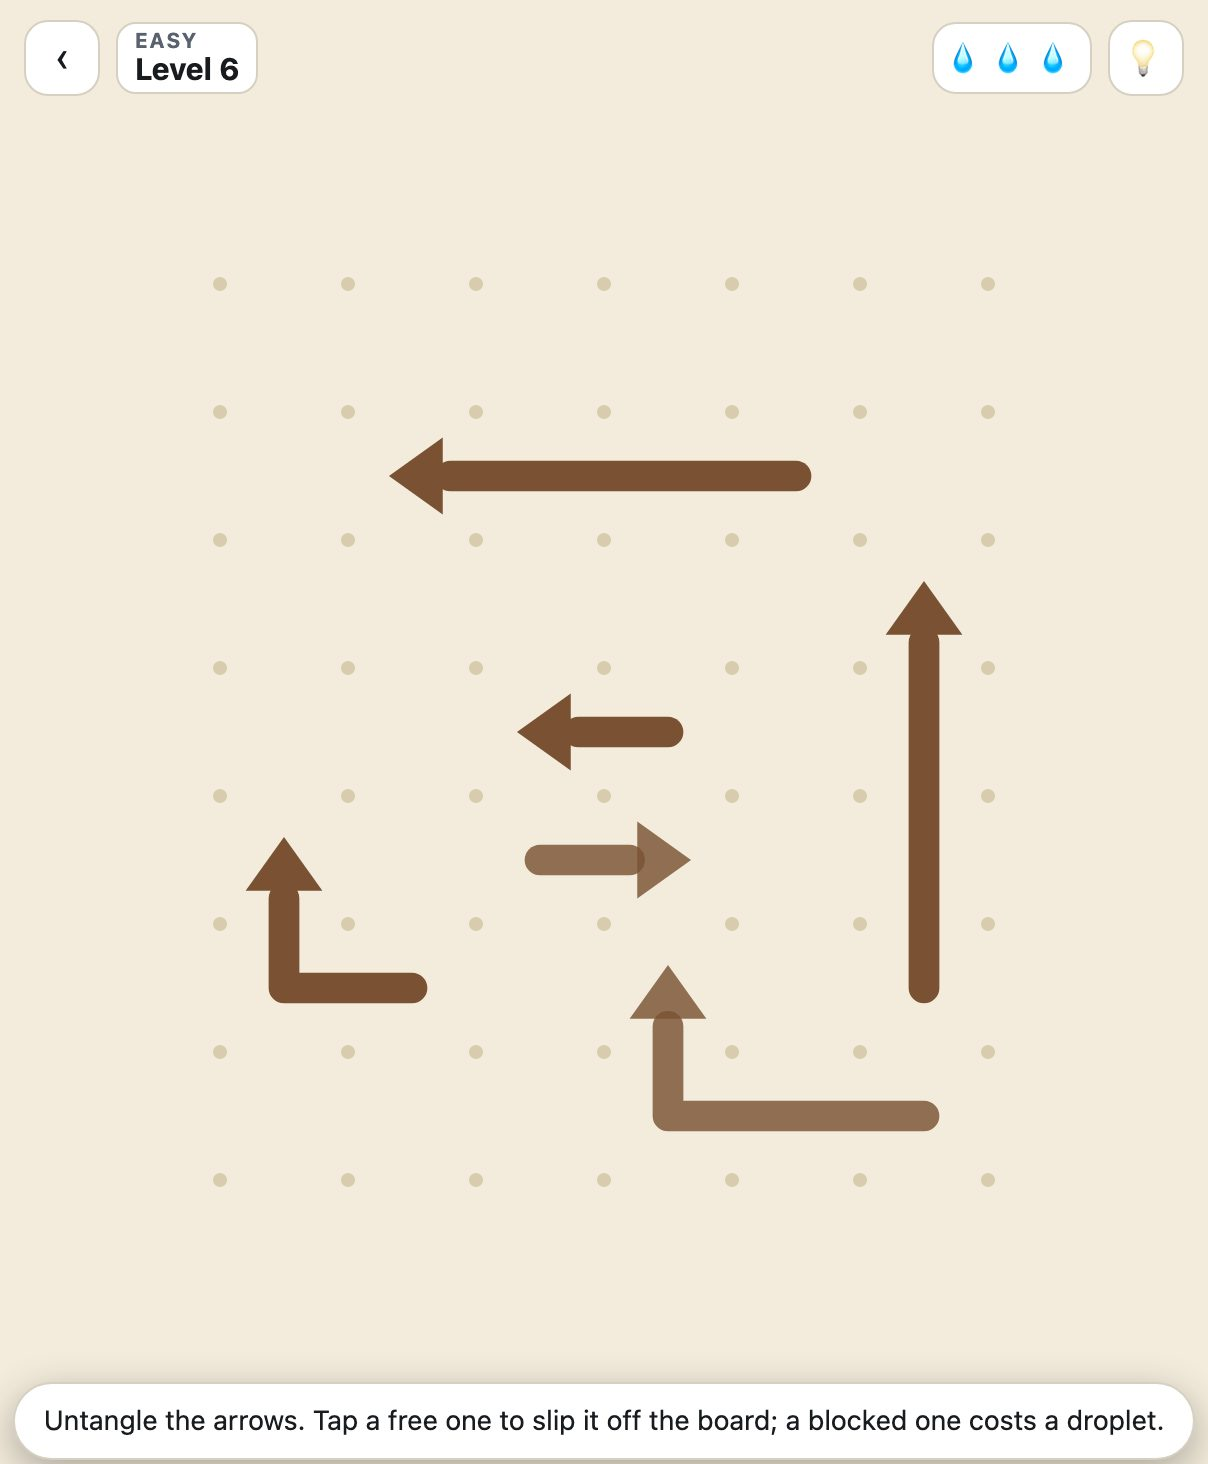
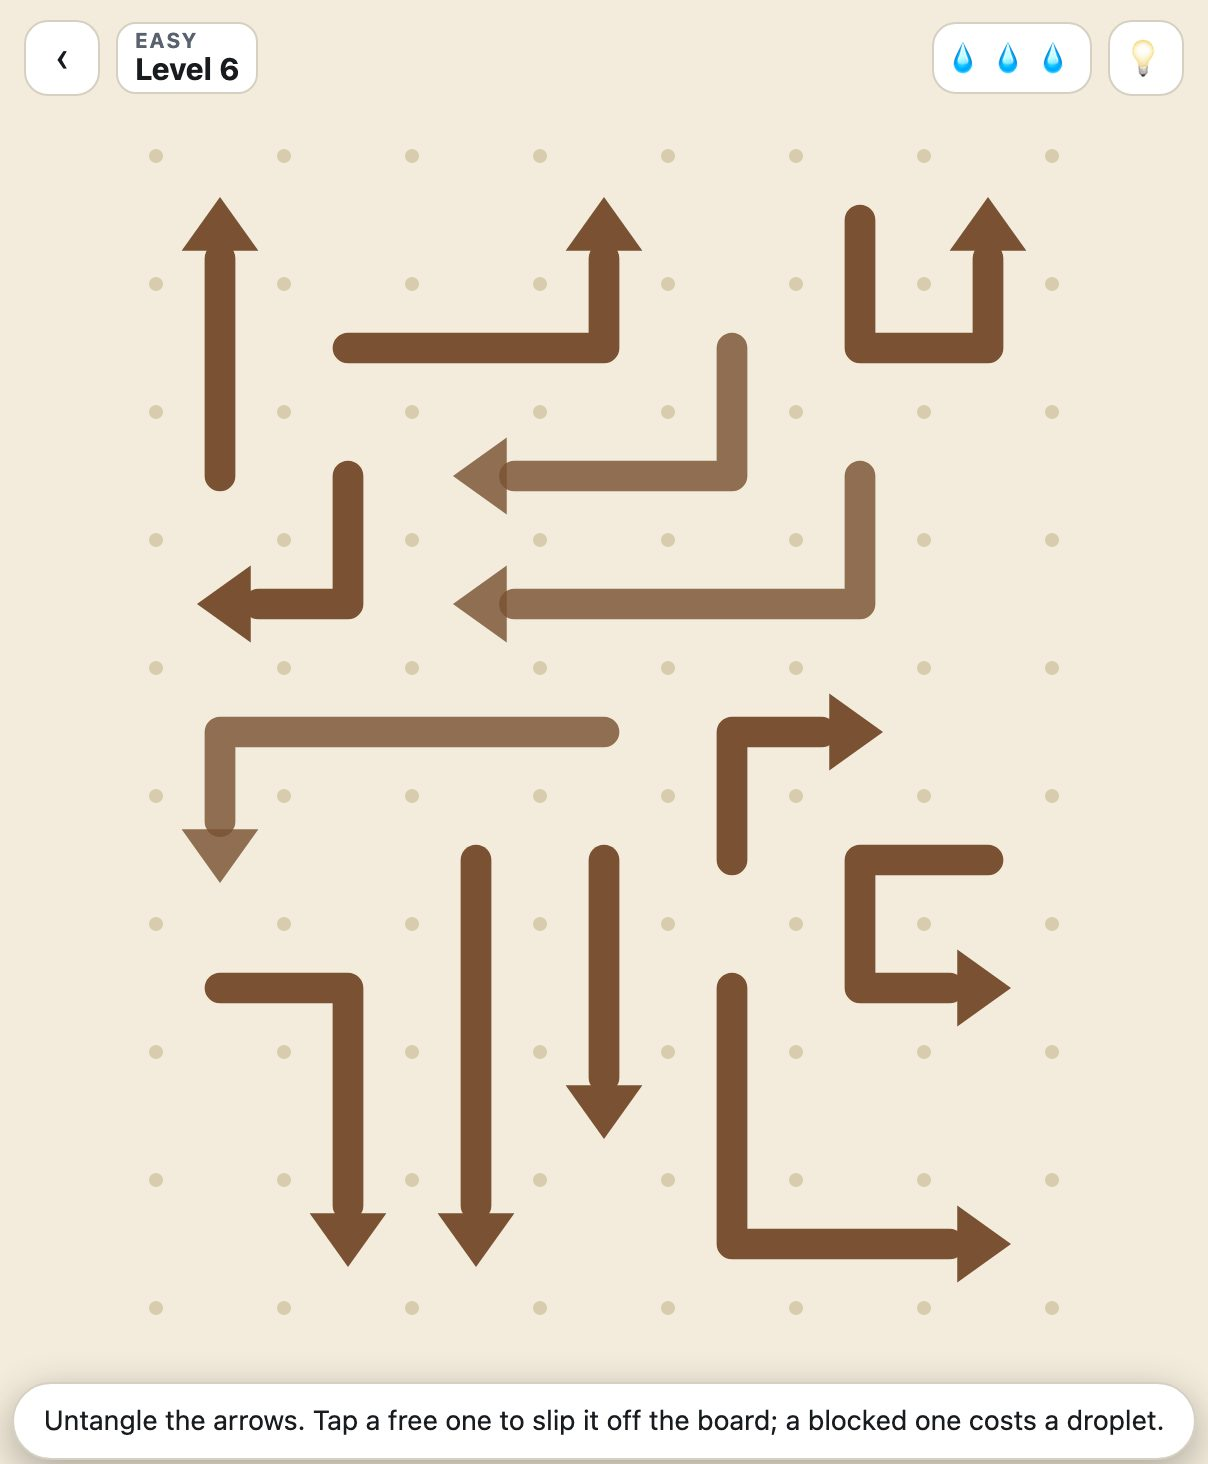
looseends: level 1 is a puzzle — the campaign curve rebased (mock F Q10)
Phase 11 of the play-surface plan. level_config: w = 6 + 12t, h = 8 + 18t,
target = 10 + 58t, min_len = 3, max_len = 5 + round(7t) — ten arrows on a
6×8 with snakes of 3–5 at level 1 (it fills exactly), the top of the curve
where the spec put it (68 on 18×26, snakes to 12). The daily config is the
spec's, untouched. Golden vectors (level 1, level 50, all 100 counts)
re-recorded for the new curve — outputs of a deliberate change, printed from
the generator and pasted, not hand-edited. cargo test + clippy green; the
acceptance fill test holds (≥70% everywhere, level 1 exact). RULES.md says
which half is the spec's and which is ours.

Claude-Session: https://claude.ai/code/session_01TWKEm65NEjxkHoS1WJuz2b

diff --git a/crates/looseends-core/src/generate.rs b/crates/looseends-core/src/generate.rs
@@ -173,7 +173,7 @@ mod tests {
     fn level1_board_matches_golden() {
         let board = generate(&level_config(1));
         let golden: serde_json::Value = serde_json::from_str(
-            r#"[{"cells":[[2,4],[1,4],[0,4]],"dir":[-1,0]},{"cells":[[3,4],[4,4],[4,5]],"dir":[0,1]},{"cells":[[1,3],[1,2],[1,1]],"dir":[0,-1]}]"#,
+            r#"[{"cells":[[0,5],[0,6],[1,6],[2,6]],"dir":[1,0]},{"cells":[[2,1],[3,1],[3,2]],"dir":[0,1]},{"cells":[[3,4],[3,5],[3,6],[3,7],[4,7]],"dir":[1,0]},{"cells":[[5,4],[4,4],[4,3],[4,2],[4,1]],"dir":[0,-1]},{"cells":[[2,3],[2,2],[1,2],[0,2]],"dir":[-1,0]},{"cells":[[0,1],[0,0],[1,0],[2,0]],"dir":[1,0]},{"cells":[[2,7],[1,7],[0,7]],"dir":[-1,0]},{"cells":[[5,3],[5,2],[5,1],[5,0]],"dir":[0,-1]},{"cells":[[2,4],[1,4],[0,4]],"dir":[-1,0]},{"cells":[[5,5],[5,6],[5,7]],"dir":[0,1]}]"#,
         )
         .unwrap();
         assert_eq!(arrows_json(&board), golden);
@@ -203,14 +203,14 @@ mod tests {
         assert_eq!(arrows_json(&a), arrows_json(&b));
     }
 
-    // Golden arrow counts for all 100 levels, from the JS reference. A single
-    // off-by-one anywhere in the port trips this.
+    // Golden arrow counts for all 100 levels — re-recorded 2026-09-08 for the
+    // rebased curve (config.rs). A single off-by-one anywhere in the generator
+    // trips this.
     const GOLDEN_COUNTS: [i32; 100] = [
-        3, 4, 4, 5, 6, 6, 7, 8, 8, 9, 10, 9, 11, 12, 12, 13, 14, 14, 15, 15, 16, 17, 17, 18, 19,
-        18, 17, 18, 20, 21, 23, 21, 22, 22, 24, 25, 26, 25, 27, 25, 26, 30, 31, 31, 30, 31, 28, 30,
-        29, 30, 30, 28, 35, 32, 32, 35, 29, 34, 30, 35, 33, 34, 38, 35, 35, 39, 36, 37, 40, 38, 37,
-        35, 43, 43, 43, 40, 42, 43, 41, 45, 43, 44, 45, 47, 48, 43, 51, 47, 52, 55, 50, 56, 50, 51,
-        49, 51, 58, 51, 52, 54,
+        10, 11, 11, 12, 11, 13, 13, 13, 12, 14, 14, 15, 14, 15, 16, 19, 17, 18, 19, 18, 18, 18, 21, 20, 20,
+        20, 21, 23, 22, 23, 25, 25, 25, 24, 27, 26, 26, 27, 27, 27, 30, 28, 31, 30, 28, 29, 33, 32, 35, 31,
+        32, 29, 31, 31, 33, 36, 33, 37, 36, 36, 38, 35, 40, 37, 39, 38, 38, 42, 38, 39, 40, 47, 41, 39, 46,
+        39, 43, 46, 41, 44, 48, 48, 44, 47, 48, 46, 48, 55, 49, 48, 50, 51, 56, 51, 49, 51, 58, 51, 52, 54,
     ];
 
     #[test]
@@ -225,5 +225,6 @@ mod tests {
         }
     }
 
-    const GOLDEN_L50: &str = r#"[{"cells":[[8,0],[7,0],[6,0]],"dir":[-1,0]},{"cells":[[3,1],[4,1],[5,1],[6,1]],"dir":[1,0]},{"cells":[[8,1],[8,2],[8,3],[7,3],[7,4],[7,5]],"dir":[0,1]},{"cells":[[1,4],[1,5],[0,5]],"dir":[-1,0]},{"cells":[[9,5],[9,4],[9,3],[9,2],[9,1],[9,0]],"dir":[0,-1]},{"cells":[[1,1],[0,1],[0,0]],"dir":[0,-1]},{"cells":[[9,10],[10,10],[10,11],[10,12],[9,12],[9,13],[9,14],[9,15]],"dir":[0,1]},{"cells":[[3,2],[2,2],[2,1]],"dir":[0,-1]},{"cells":[[3,10],[3,11],[2,11],[1,11],[1,12],[1,13],[1,14],[1,15]],"dir":[0,1]},{"cells":[[9,11],[8,11],[8,12]],"dir":[0,1]},{"cells":[[10,3],[10,2],[10,1],[10,0]],"dir":[0,-1]},{"cells":[[5,6],[5,7]],"dir":[0,1]},{"cells":[[2,5],[2,6],[1,6],[0,6],[0,7],[0,8]],"dir":[0,1]},{"cells":[[4,11],[4,12],[5,12],[5,13],[5,14]],"dir":[0,1]},{"cells":[[7,7],[6,7],[6,8],[6,9],[6,10],[6,11],[6,12]],"dir":[0,1]},{"cells":[[6,15],[6,14],[6,13],[7,13],[8,13],[8,14],[8,15]],"dir":[0,1]},{"cells":[[6,3],[5,3]],"dir":[-1,0]},{"cells":[[2,8],[2,9],[2,10],[1,10],[0,10],[0,11],[0,12]],"dir":[0,1]},{"cells":[[4,5],[4,4],[4,3],[3,3]],"dir":[-1,0]},{"cells":[[2,12],[3,12],[3,13],[4,13],[4,14],[3,14],[3,15]],"dir":[0,1]},{"cells":[[4,6],[3,6],[3,5],[3,4],[2,4],[2,3],[1,3]],"dir":[-1,0]},{"cells":[[6,4],[6,5],[6,6],[7,6],[8,6],[9,6],[10,6]],"dir":[1,0]},{"cells":[[10,13],[10,14],[10,15]],"dir":[0,1]},{"cells":[[2,13],[2,14]],"dir":[0,1]},{"cells":[[0,13],[0,14],[0,15]],"dir":[0,1]},{"cells":[[9,8],[9,9],[10,9]],"dir":[1,0]},{"cells":[[7,14],[7,15]],"dir":[0,1]},{"cells":[[7,10],[8,10],[8,9],[8,8],[8,7],[9,7],[10,7]],"dir":[1,0]},{"cells":[[1,2],[0,2]],"dir":[-1,0]},{"cells":[[1,7],[1,8],[1,9],[0,9]],"dir":[-1,0]}]"#;
+    const GOLDEN_L50: &str = r#"[{"cells":[[2,9],[2,10],[2,11]],"dir":[0,1]},{"cells":[[7,7],[7,6],[7,5]],"dir":[0,-1]},{"cells":[[4,1],[4,2],[4,3],[4,4],[4,5],[4,6],[3,6],[2,6]],"dir":[-1,0]},{"cells":[[2,8],[3,8],[3,9],[3,10],[3,11],[3,12]],"dir":[0,1]},{"cells":[[8,3],[9,3],[10,3],[11,3]],"dir":[1,0]},{"cells":[[4,12],[4,11],[4,10],[4,9],[5,9],[6,9],[7,9]],"dir":[1,0]},{"cells":[[9,5],[8,5],[8,6],[8,7]],"dir":[0,1]},{"cells":[[6,5],[6,4],[5,4],[5,3],[5,2],[6,2],[6,1]],"dir":[0,-1]},{"cells":[[8,14],[8,15],[8,16]],"dir":[0,1]},{"cells":[[0,5],[0,6],[1,6],[1,5],[1,4],[0,4],[0,3]],"dir":[0,-1]},{"cells":[[5,8],[5,7],[4,7],[3,7],[2,7],[1,7],[0,7],[0,8]],"dir":[0,1]},{"cells":[[5,0],[6,0],[7,0]],"dir":[1,0]},{"cells":[[11,6],[11,7],[10,7],[9,7],[9,8]],"dir":[0,1]},{"cells":[[7,2],[8,2],[9,2],[10,2]],"dir":[1,0]},{"cells":[[5,10],[6,10],[7,10],[8,10],[9,10]],"dir":[1,0]},{"cells":[[8,12],[9,12],[10,12],[11,12],[11,13],[11,14]],"dir":[0,1]},{"cells":[[3,2],[3,3],[3,4],[2,4],[2,3],[2,2],[2,1],[2,0]],"dir":[0,-1]},{"cells":[[11,2],[11,1],[10,1],[10,0]],"dir":[0,-1]},{"cells":[[1,3],[1,2],[1,1],[0,1]],"dir":[-1,0]},{"cells":[[6,15],[7,15],[7,16]],"dir":[0,1]},{"cells":[[1,10],[1,11],[0,11],[0,12],[0,13],[0,14],[0,15]],"dir":[0,1]},{"cells":[[1,15],[1,16],[0,16]],"dir":[-1,0]},{"cells":[[9,15],[9,14],[9,13],[10,13],[10,14],[10,15]],"dir":[0,1]},{"cells":[[9,9],[10,9],[11,9]],"dir":[1,0]},{"cells":[[7,14],[6,14],[5,14],[4,14],[3,14],[2,14],[2,15],[2,16]],"dir":[0,1]},{"cells":[[6,11],[7,11],[8,11],[9,11],[10,11],[10,10],[11,10]],"dir":[1,0]},{"cells":[[3,15],[4,15],[5,15],[5,16]],"dir":[0,1]},{"cells":[[9,16],[10,16],[11,16]],"dir":[1,0]},{"cells":[[7,3],[7,4],[8,4],[9,4],[10,4],[10,5],[11,5]],"dir":[1,0]},{"cells":[[7,1],[8,1],[9,1],[9,0]],"dir":[0,-1]},{"cells":[[1,8],[1,9],[0,9]],"dir":[-1,0]}]"#;
+
 }

diff --git a/crates/looseends-core/src/config.rs b/crates/looseends-core/src/config.rs
@@ -1,6 +1,11 @@
 //! Level and daily board configuration — pure deterministic functions of the
-//! level number / daily seed, ported exactly from the spec's `levelConfig` /
-//! `dailyConfig`.
+//! level number / daily seed. `dailyConfig` is ported exactly from the spec;
+//! `levelConfig` was **rebased on 2026-09-08** (mock F Q10, play-surface plan
+//! phase 11): the spec's curve started at three arrows on a 5×6 — nothing to
+//! read — and the genre's fun is reading a dense knot that resolves in order.
+//! Level 1 is now ten arrows on 6×8 with snakes of 3–5; Easy's end (level 15)
+//! is ~24 on 8×11; the top of the curve stays where the spec put it (68 on
+//! 18×26, snakes up to 12). The daily config is untouched.
 //!
 //! Sizing uses `f64` exactly as the spec's `Math.round(a + b*t)` does. IEEE-754
 //! `+ - * /` are bit-identical on native and `wasm32`, and for the always-
@@ -44,16 +49,16 @@ pub fn daily_seed(date_key: &str) -> u32 {
     hash_str(&format!("loose-ends-daily-{date_key}"))
 }
 
-/// Campaign level config for `n` (`1..=100`) — the spec's `levelConfig`.
+/// Campaign level config for `n` (`1..=100`) — the rebased curve (module doc).
 #[must_use]
 pub fn level_config(n: u32) -> Config {
     let t = (f64::from(n) - 1.0) / 99.0;
     Config {
-        w: jround(5.0 + 13.0 * t),
-        h: jround(6.0 + 20.0 * t),
-        target: jround(3.0 + 65.0 * t),
-        min_len: 2 + jround(t),
-        max_len: 4 + jround(t * 8.0),
+        w: jround(6.0 + 12.0 * t),
+        h: jround(8.0 + 18.0 * t),
+        target: jround(10.0 + 58.0 * t),
+        min_len: 3,
+        max_len: 5 + jround(t * 7.0),
         seed: level_seed(n),
     }
 }
@@ -83,10 +88,13 @@ mod tests {
 
     #[test]
     fn level_config_matches_reference() {
+        // The curve rebased 2026-09-08 (mock F Q10, play-surface phase 11): level 1
+        // is a puzzle to read — ten arrows on 6×8 with snakes of 3–5 — and the top
+        // of the curve stays where it was (68 on 18×26, snakes up to 12).
         let c1 = level_config(1);
         assert_eq!(
             (c1.w, c1.h, c1.target, c1.min_len, c1.max_len),
-            (5, 6, 3, 2, 4)
+            (6, 8, 10, 3, 5)
         );
         assert_eq!(c1.seed, 3_873_835_247);
 
@@ -100,7 +108,7 @@ mod tests {
         let c50 = level_config(50);
         assert_eq!(
             (c50.w, c50.h, c50.target, c50.min_len, c50.max_len),
-            (11, 16, 35, 2, 8)
+            (12, 17, 39, 3, 8)
         );
         assert_eq!(c50.seed, 3_273_002_345);
     }

diff --git a/crates/looseends-core/RULES.md b/crates/looseends-core/RULES.md
@@ -49,9 +49,12 @@ target; level 1 lands exactly on target.
 
 ## Sizing — level & daily
 
-`level_config(n)` (`n = 1..=100`) and `daily_config(seed)` mirror the spec's
-`levelConfig` / `dailyConfig` exactly, sizing with `f64` `Math.round` (`floor(x +
-0.5)` for the always-positive values here). Sizing is a pure deterministic
+`daily_config(seed)` mirrors the spec's `dailyConfig` exactly. `level_config(n)`
+(`n = 1..=100`) is the curve **rebased 2026-09-08** (mock F Q10): `w = 6 + 12t`,
+`h = 8 + 18t`, `target = 10 + 58t`, `min_len = 3`, `max_len = 5 + round(7t)` — level 1
+is ten arrows on 6×8 (a knot to read, not three arrows on a 5×6), the top of the
+curve is where the spec put it (68 on 18×26). Both size with `f64` `Math.round`
+(`floor(x + 0.5)` for the always-positive values here). Sizing is a pure deterministic
 function and never enters the state hash, so the hashed path stays integer-only.
 A `Config` packs into one `u64` (`seed:32, w:5, h:5, target:7, min_len:3,
 max_len:4`) so an outcome record regenerates its exact board from the seed alone.
